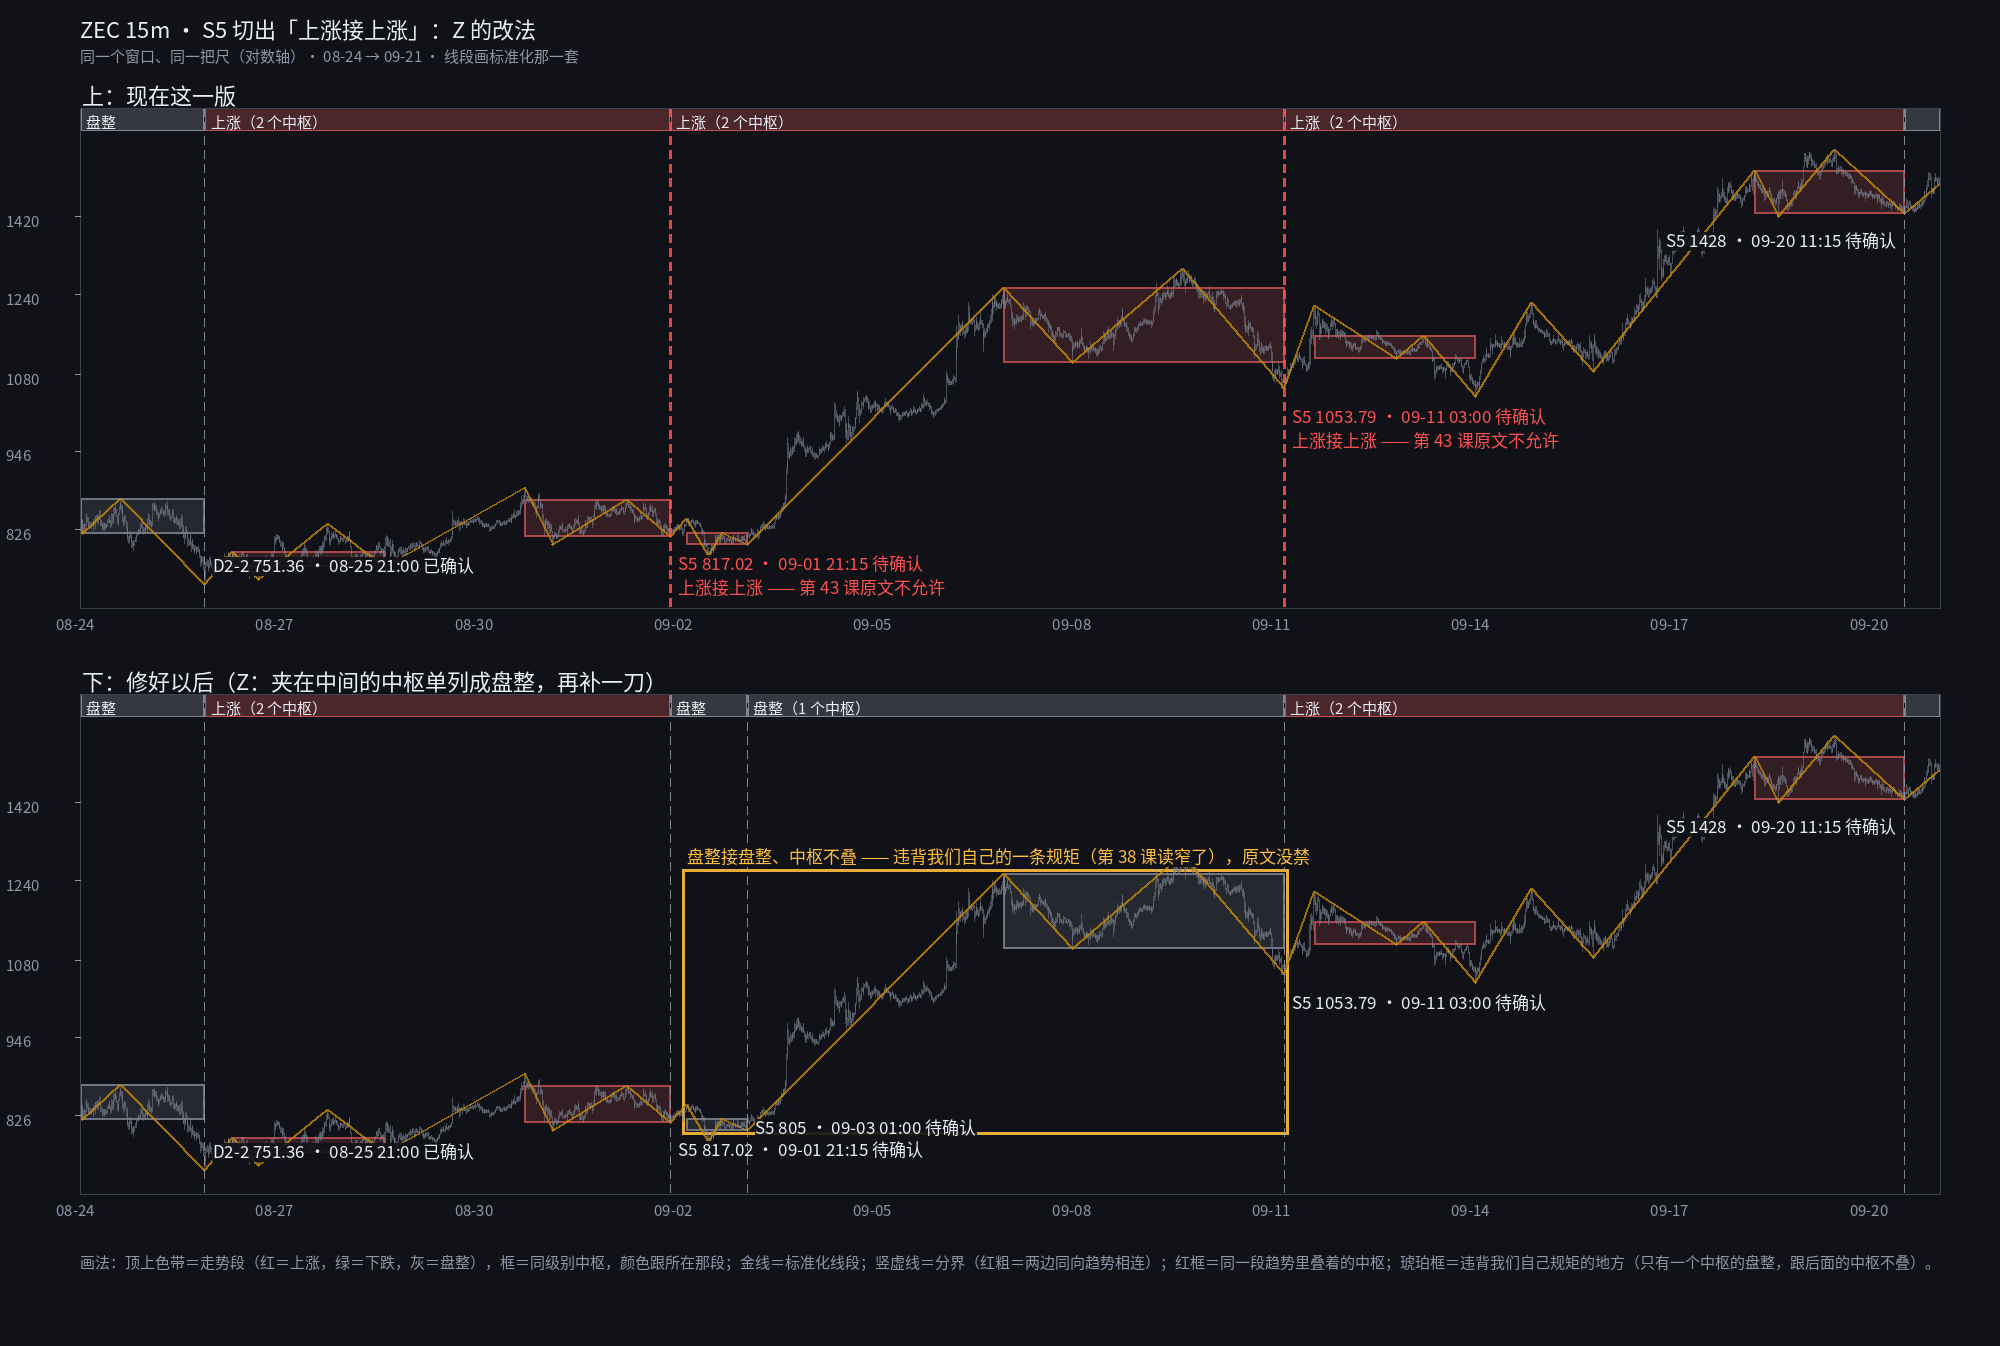
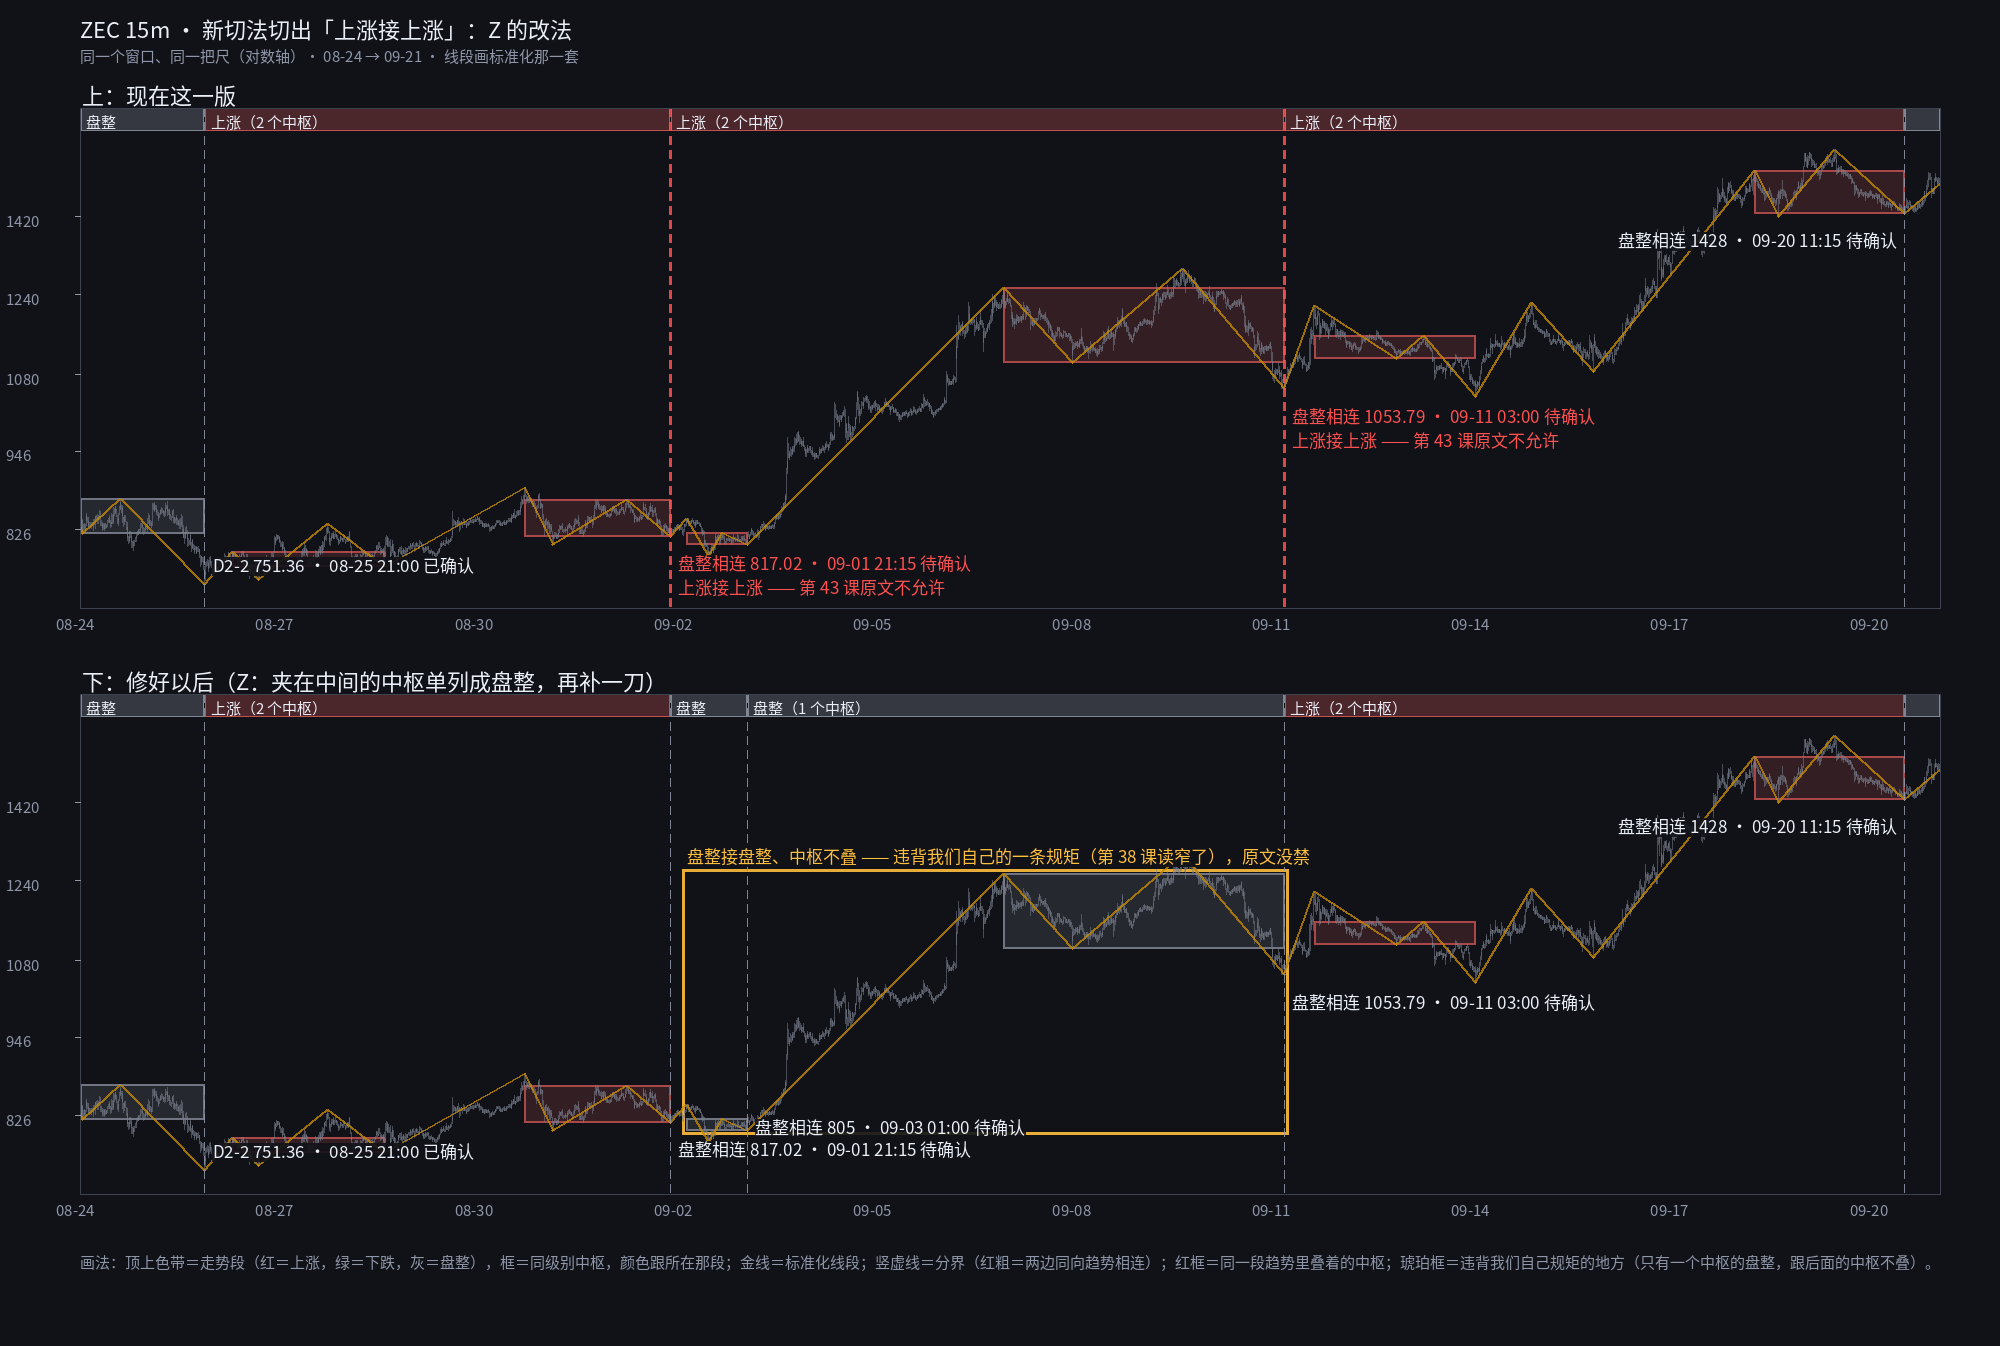
J18/L43：图上 S5 改叫「盘整相连」、标题改「新切法切出…」（Nova 18:58，跟决策页一个叫法）

diff --git a/notes/r1/l43_fig.py b/notes/r1/l43_fig.py
@@ -28,6 +28,7 @@ LL, LH = math.log(lo), math.log(hi)
 d.text((ML, 12), a.title, fill=TX, font=F)
 d.text((ML, 44), f'同一个窗口、同一把尺（对数轴）· {utc(b0):%m-%d} → {utc(b1):%m-%d} · 线段画标准化那一套', fill=MU, font=Fs)
 GOLD, RED, GRN, GRY, WARN, AMB = (196, 137, 1), (230, 92, 92), (70, 175, 120), (150, 156, 170), (255, 80, 80), (255, 190, 60)
+RULE = {'S5': '盘整相连'}                                  # 刀名跟决策页一个叫法（Nova 18:58：小栋不认识 S5）
 TC = {'上涨': RED, '下跌': GRN, '盘整': GRY, '无中枢': GRY}
 
 def dashed(q, x0, y0, x1, y1, col, width, on=8, off=6):
@@ -83,7 +84,7 @@ def panel(k, D, tag):
         dashed(q, X(i), 34, X(i), bot, col + (220,), 3 if bad else 1)
         ty = min(bot - 56, max(64, Y(bd['price']) + (14 if bd['kind'] == 'L' else -40)))
         st = '待确认' if bd['state'] == 'pending' else '已确认' if bd['state'] == 'confirmed' else ''
-        t = f"{bd['rule']} {bd['price']:g} · {utc(i):%m-%d %H:%M} {st}"
+        t = f"{RULE.get(bd['rule'], bd['rule'])} {bd['price']:g} · {utc(i):%m-%d %H:%M} {st}"
         if bad: t += f"\n{segs[j - 1]['type']}接{segs[j]['type']} —— 第 43 课原文不允许"
         tw = q.multiline_textbbox((0, 0), t, font=Fb)[2]
         tx = X(i) + 8 if X(i) + 8 + tw < W - MR else X(i) - 8 - tw     # 靠右边出框 ⇒ 字放到线左边
